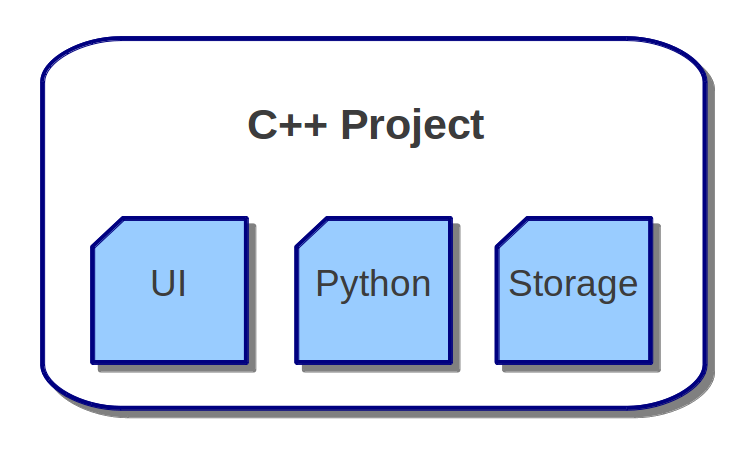
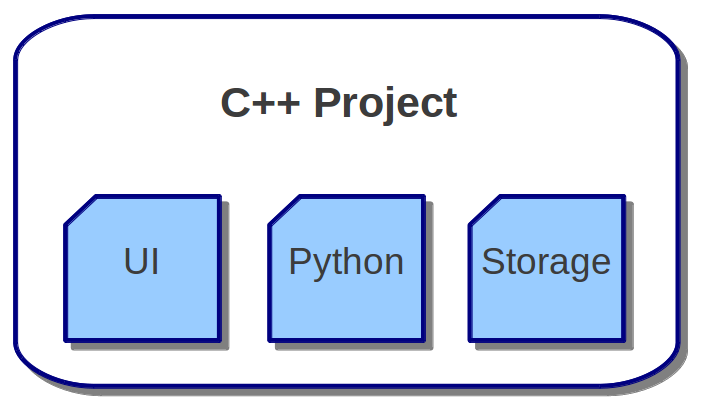
add difference figure

diff --git a/qcon.html b/qcon.html
@@ -340,13 +340,13 @@
     return 0;
   }
 </code></pre>
-          <p class="fragment">Looks similar to how we could call Python from C</p>
+          <p class="fragment">Similar to how we called Python from C...</p>
         </section>
 
         <section>
-          <h3><b>But it's totally different!</b></h3>
-          <p>There C <b>embedded</b> a Python VM and called it, here C is compiled <b>into JS</b>, and runs JS in the <b>"outside"</b> web page's VM</p>
-          [FIGURE]
+          <h3><b>But totally different!</b></h3>
+          <img src="different2.png" style="border: 0; box-shadow: none;">
+          <p class="fragment">Difference doesn't matter though!</p>
         </section>
 
         <section>
